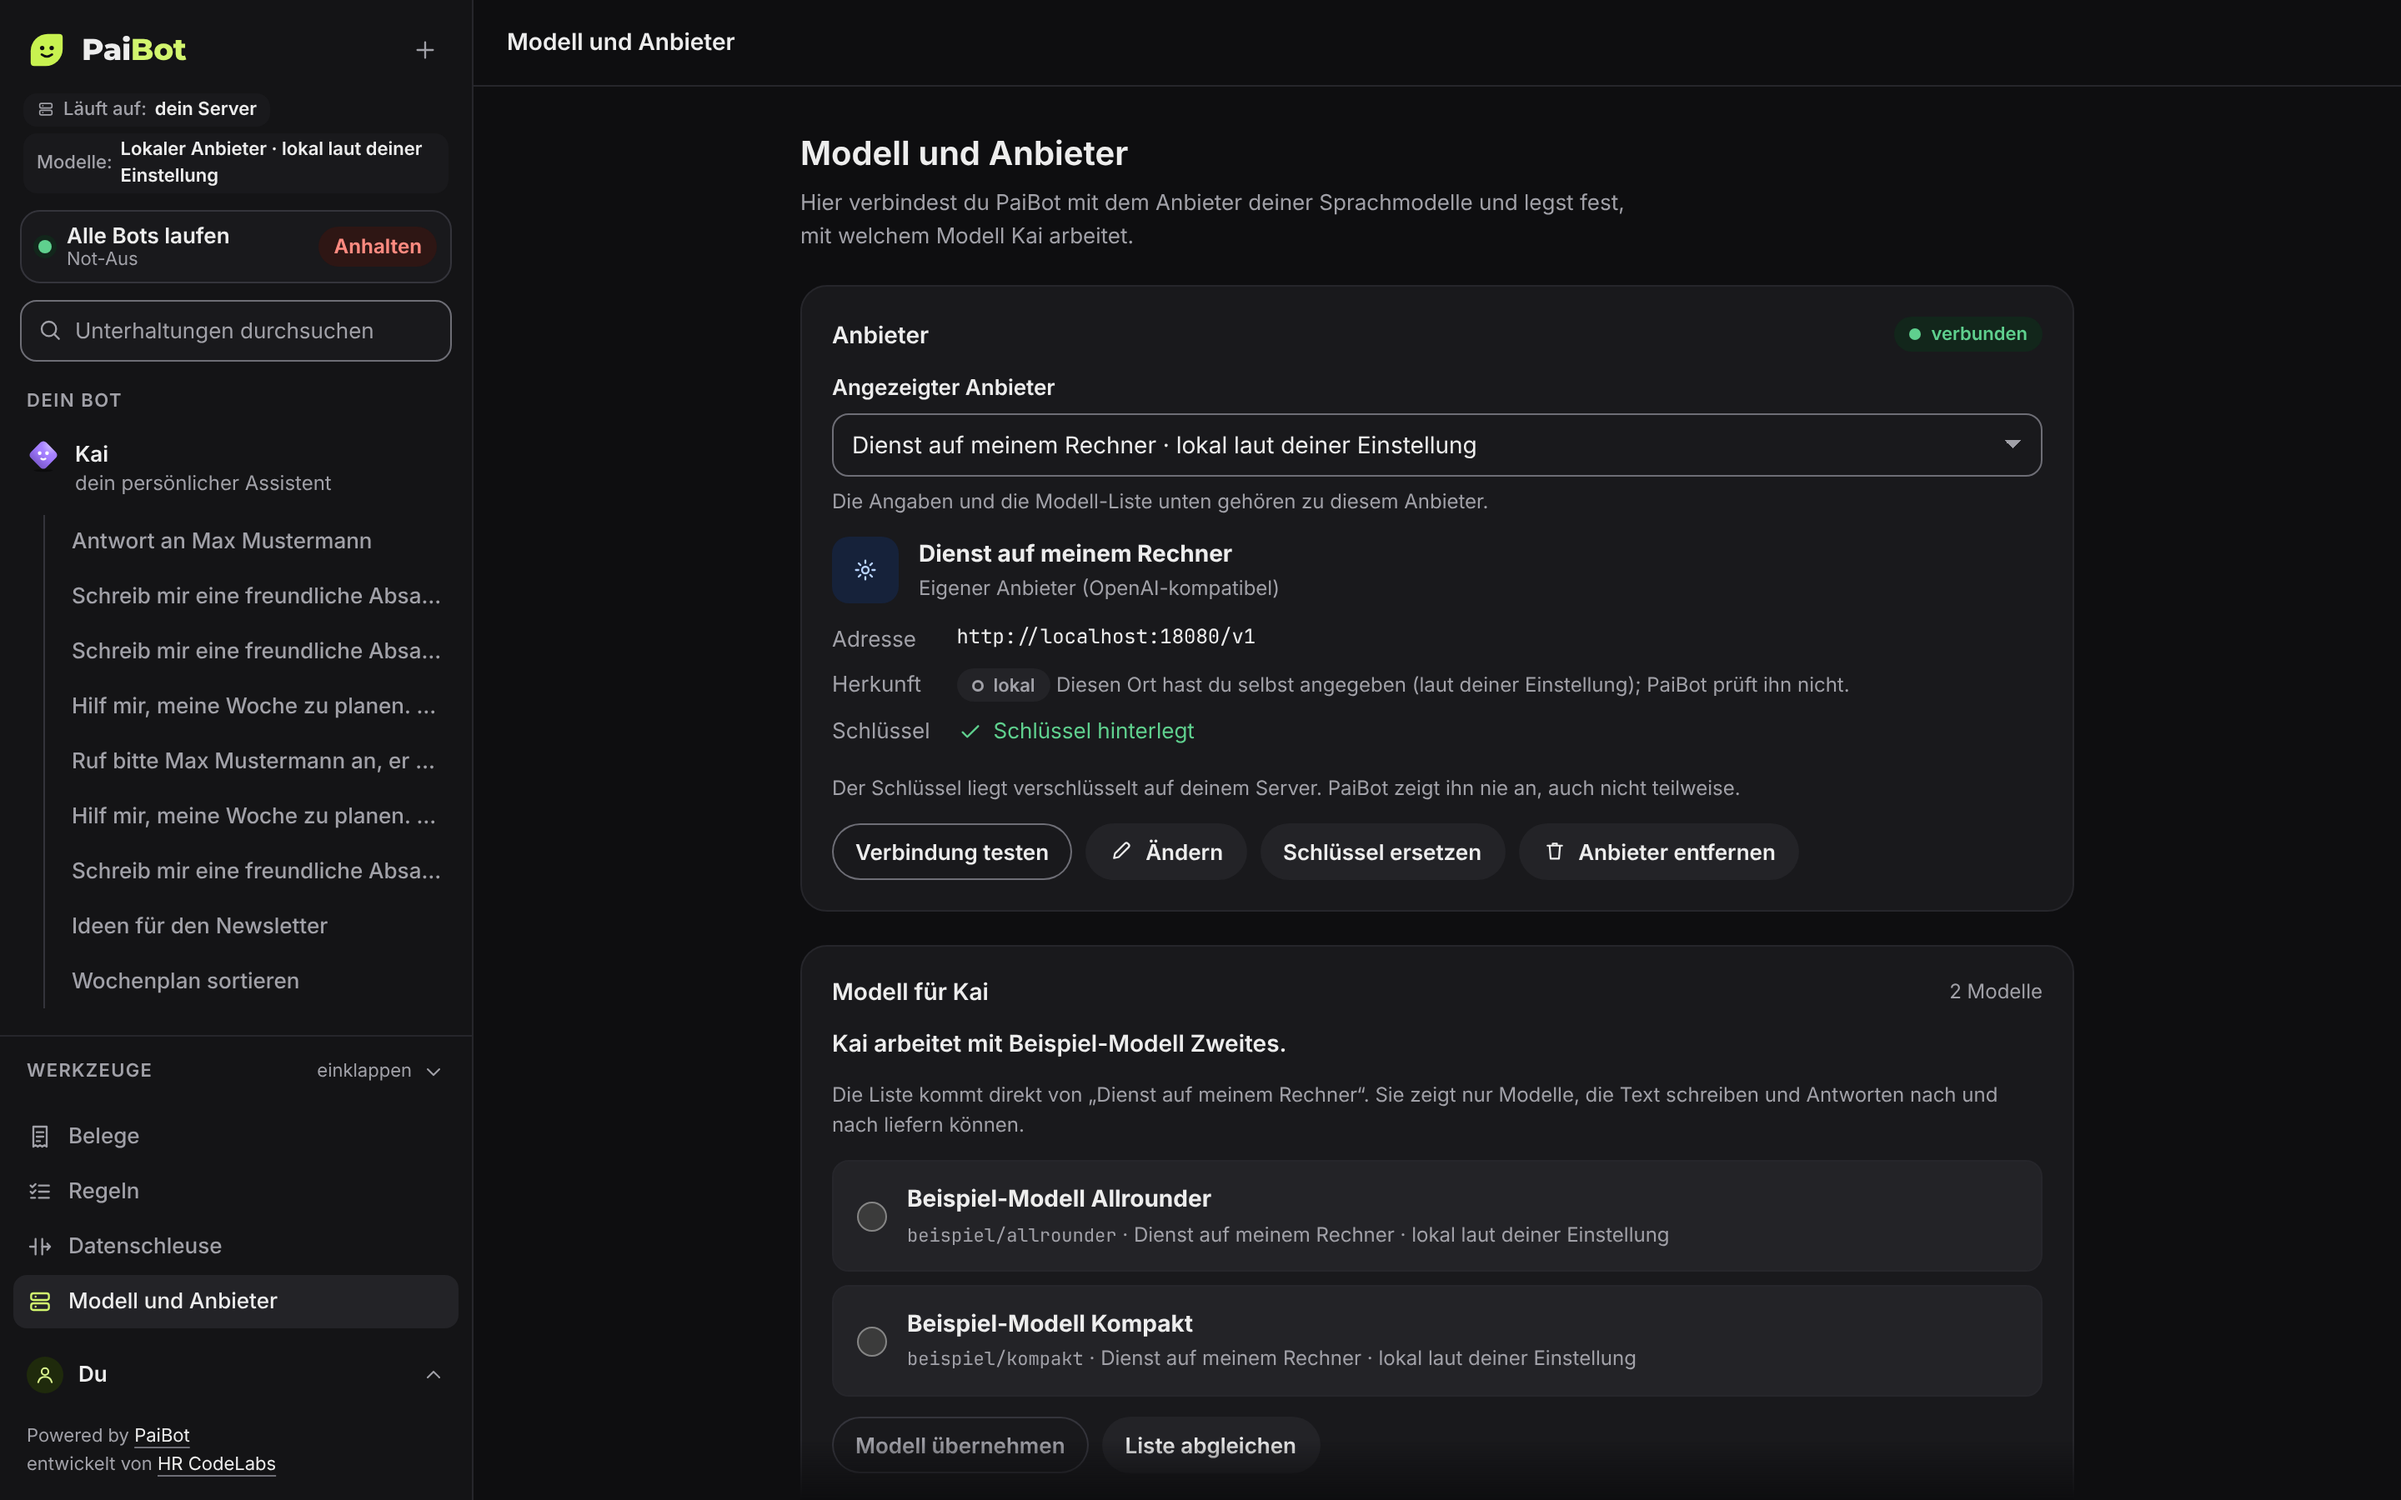
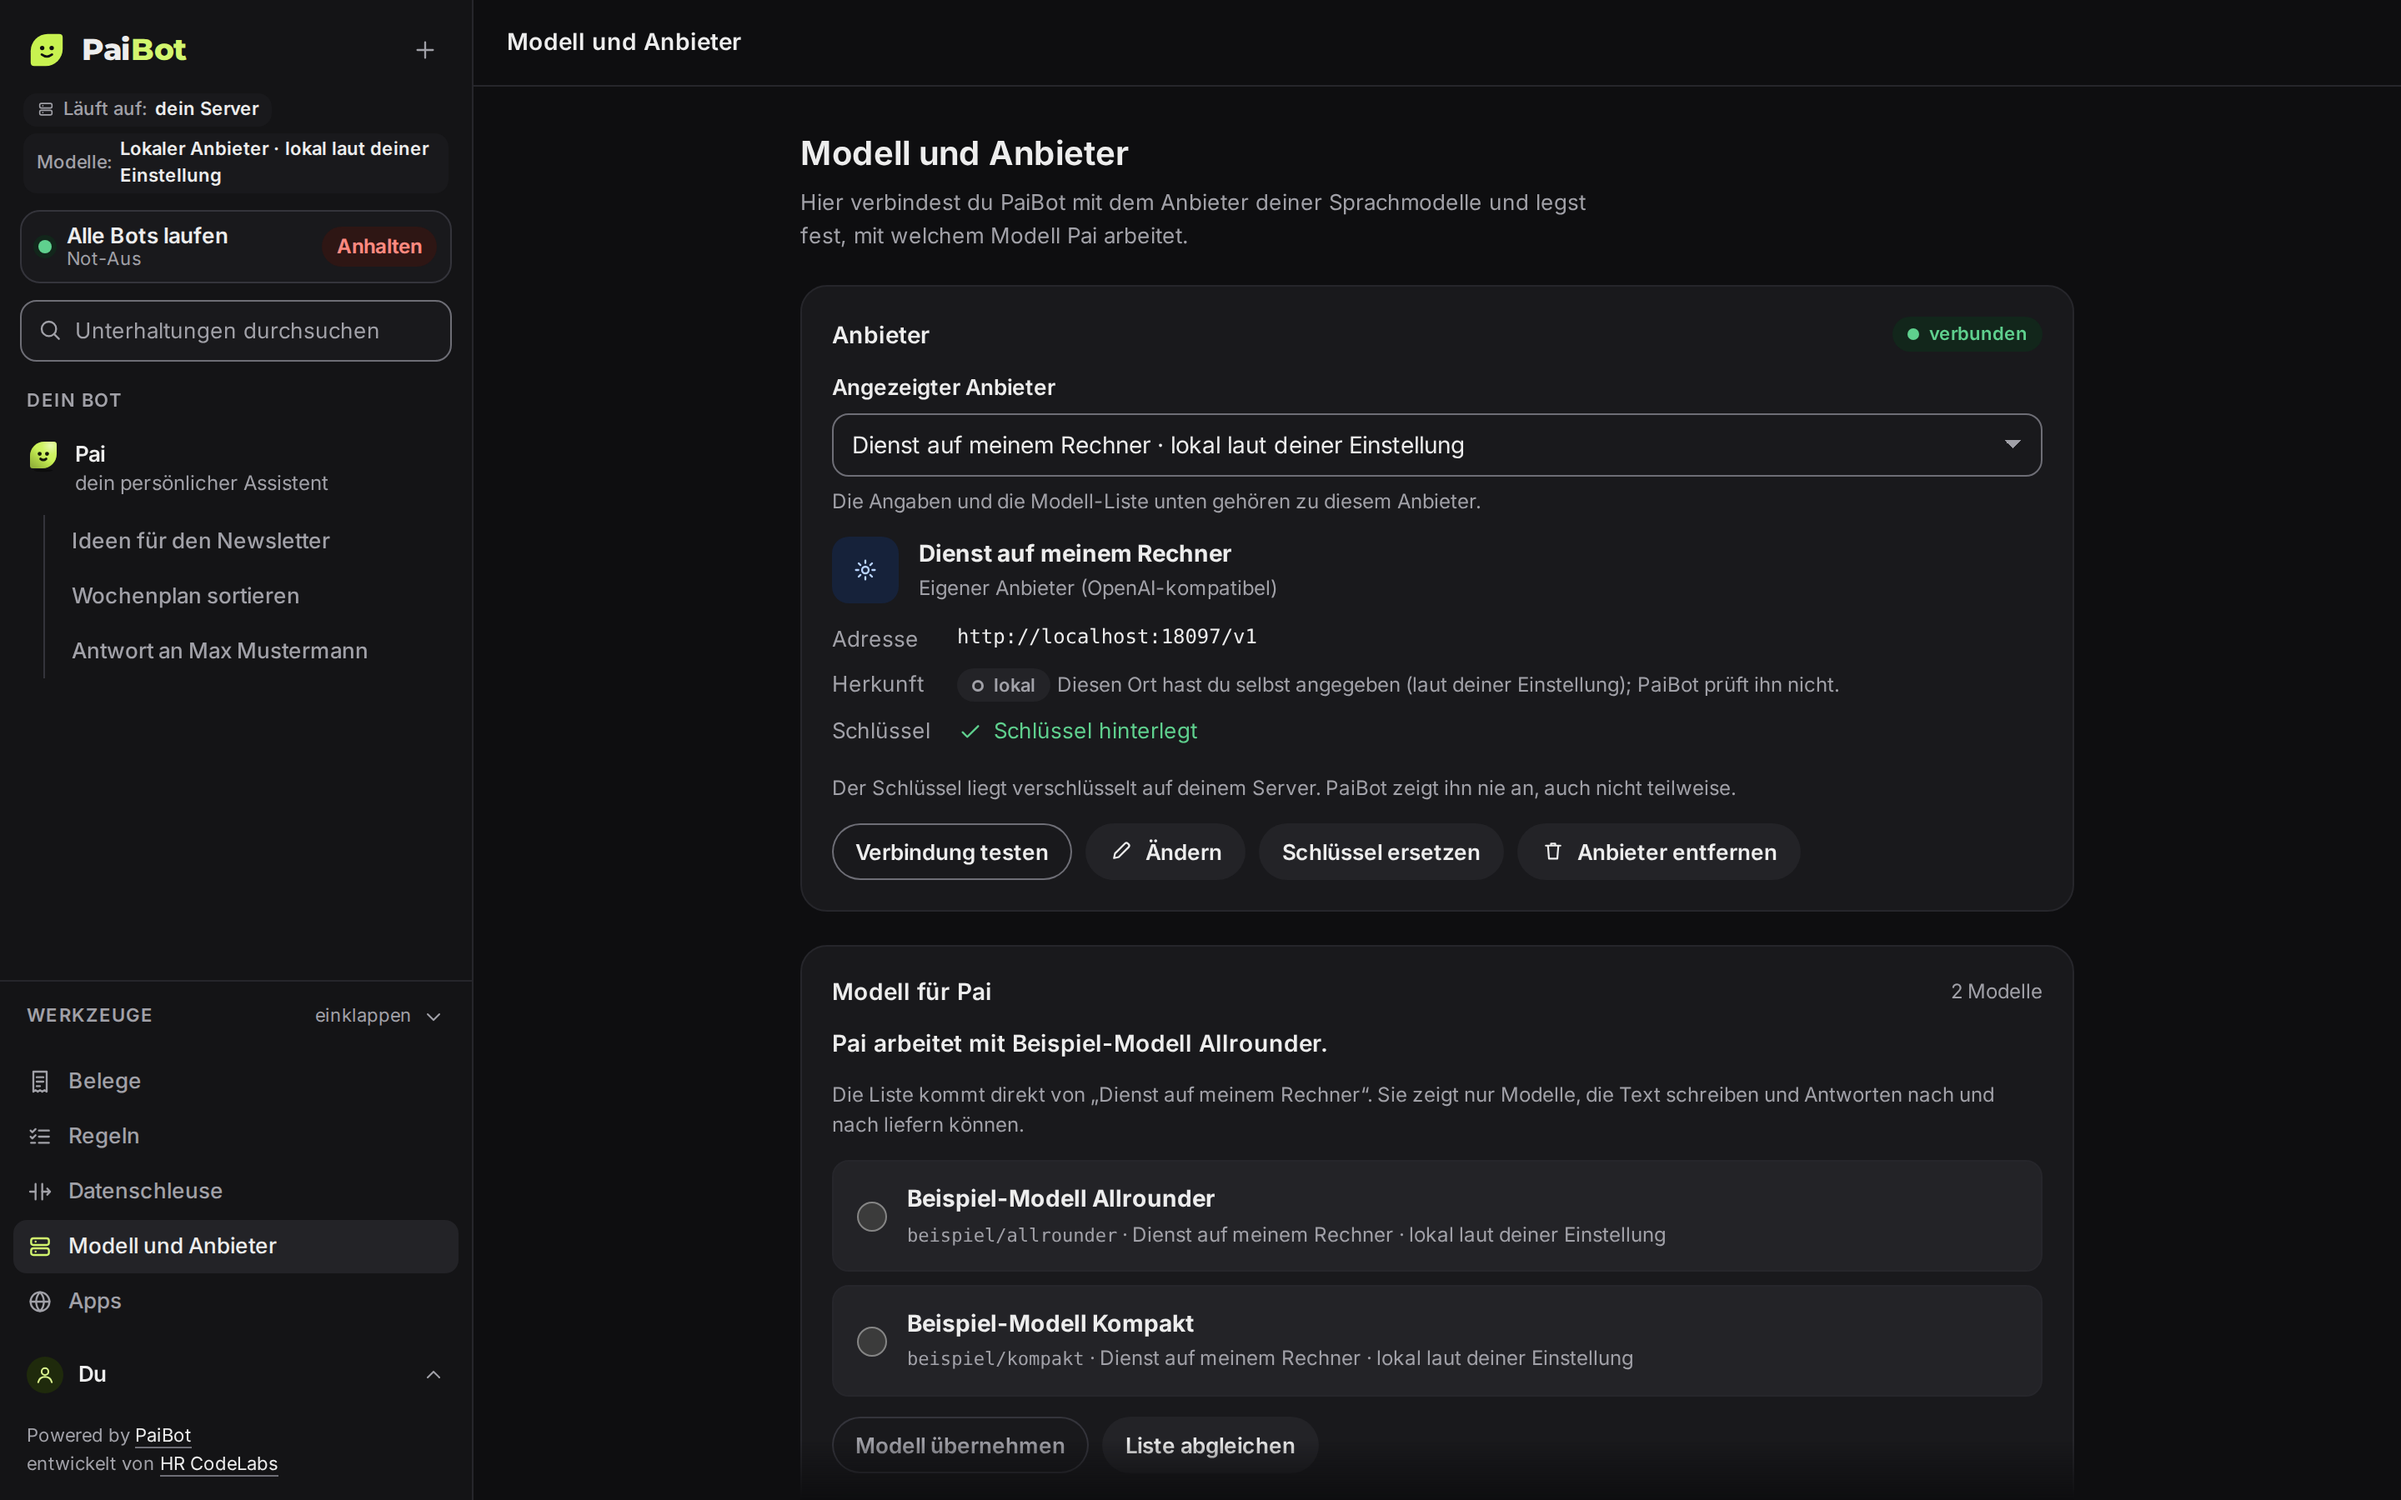
Doku-Umgebung: Adresse des Beispiel-Anbieters folgt dem Port (-adresse), Standard-Port 18097; Aufnahmen zu eigenen Anbietern neu (#74)

diff --git a/tools/lint-regeln/src/doku-bilder.test.ts b/tools/lint-regeln/src/doku-bilder.test.ts
@@ -197,6 +197,18 @@ describe("Sonderwerte und Lauf-Datei", () => {
     expect(lauf.setzeSonderwert("$$5", werte)).toBe("$5");
   });
 
+  // Gegenprobe: den Port fest auf 18080 setzen → rot.
+  it("$anbieter-adresse folgt dem Port des Test-Anbieters des Laufs (kein fest eingetragener Port)", () => {
+    const mit = (anbieterUrl: string) => ({ ...werte, anbieterUrl });
+    expect(lauf.setzeSonderwert("$anbieter-adresse", mit("http://127.0.0.1:18097"))).toBe(
+      "http://localhost:18097/v1",
+    );
+    expect(lauf.setzeSonderwert("$anbieter-adresse", mit("http://127.0.0.1:23456"))).toBe(
+      "http://localhost:23456/v1",
+    );
+    expect(() => lauf.setzeSonderwert("$anbieter-adresse", werte)).toThrow("fehlt der Wert");
+  });
+
   it("unbekannter Sonderwert oder fehlender Wert ist ein Fehler", () => {
     expect(() => lauf.setzeSonderwert("$geheim", werte)).toThrow("Unbekannter Sonderwert");
     expect(() => lauf.setzeSonderwert("$passwort", {})).toThrow("fehlt der Wert");

diff --git a/docs/funktion-anbieter-und-modelle.md b/docs/funktion-anbieter-und-modelle.md
@@ -77,7 +77,7 @@ Bei EUrouter wählst du keine Modelle aus einer Liste, sondern eine deiner Routi
 17. Gib einen Namen ein (so heißt der Anbieter in PaiBot; Steuer- und unsichtbare Zeichen entfernt PaiBot) und die Adresse des Dienstes, meist mit `/v1` am Ende.
 18. Wähle bei „Wo läuft der Dienst?“ den Ort: „Bei einem Dienst in der EU“, „Bei einem Dienst außerhalb der EU“ oder „Auf deinem Rechner oder in deinem Netz (lokal)“. Diese Angabe ist deine; PaiBot zeigt sie mit „laut deiner Einstellung“ und prüft sie nicht. „lokal“ gilt nur für Adressen auf deinem Rechner oder in deinem Netz: Eine öffentliche Adresse ist nie „lokal“ – auch nicht, wenn ein Name dorthin zeigt – und braucht https mit einem anderen Ort. Nur bei „lokal“ sind `http://` und Adressen im eigenen Netz erlaubt; bei `http://` erscheint ein Hinweis, dass die Verbindung unverschlüsselt ist. Bei „lokal“ ist der Schlüssel freiwillig, sonst Pflicht.
 
-    ![Karte „Anbieter hinzufügen“ mit dem Formular für einen eigenen Anbieter: Name „Dienst auf meinem Rechner“, Adresse „http://localhost:18080/v1“, Ort „Auf deinem Rechner oder in deinem Netz (lokal)“, gelber Hinweis „Die Verbindung ist unverschlüsselt“, leeres Feld „Schlüssel (bei „lokal“ freiwillig)“ und der Knopf „Testen und speichern“](assets/screenshots/modelle-eigen-formular.png)
+    ![Karte „Anbieter hinzufügen“ mit dem Formular für einen eigenen Anbieter: Name „Dienst auf meinem Rechner“, Adresse „http://localhost:18097/v1“, Ort „Auf deinem Rechner oder in deinem Netz (lokal)“, gelber Hinweis „Die Verbindung ist unverschlüsselt“, leeres Feld „Schlüssel (bei „lokal“ freiwillig)“ und der Knopf „Testen und speichern“](assets/screenshots/modelle-eigen-formular.png)
 19. Klicke „Testen und speichern“. PaiBot testet die Verbindung und speichert nur, was der Dienst annimmt. Passt die Adresse nicht, steht der Grund direkt am Feld. Adressen von PaiBot selbst (Datenbank, Datenschleuse, Web-App, Worker) sind auch bei „lokal“ gesperrt.
 
     **Achtung bei „außerhalb der EU“:** Wählst du diesen Ort, lehnt das Tor jede Antwort dieses Anbieters ab (Regel „Anbieter aktiv und Region erlaubt“: erlaubt sind nur „EU“ und „lokal“), und PaiBot schickt ihm nichts. Das Formular warnt davor, und auf der Seite steht der Hinweis, solange der Ort so gewählt ist. Stimmt der Ort nicht, wähl „Ändern“ und stell ihn richtig ein, zum Beispiel „EU“ für einen Dienst in der EU oder „lokal“ für deinen eigenen Rechner. Den Ort zu ändern ist jederzeit möglich; die Warnung ersetzt nicht deine eigene Prüfung, wo der Dienst wirklich läuft.

diff --git a/docs/README.md b/docs/README.md
@@ -111,7 +111,7 @@ Wer die App zwischendurch selbst ansehen will, startet sie getrennt: `pnpm doku:
 Was `pnpm doku:app` tut:
 
 - Es startet eine frische Wegwerf-Datenbank: einen eigenen Postgres aus den Programmen des Systems (`initdb`, `pg_ctl`; als root über den Benutzer `postgres`) oder, wenn `PAIBOT_DOKU_DATABASE_URL` auf einen Wegwerf-Server zeigt, eine eigene Datenbank dort. Sie heißt immer `paibot_doku_<zufall>` und trägt einen Vermerk; gelöscht wird am Ende nur, was beides hat. Eine andere Datenbank fasst das Skript nie an.
-- Es startet den [Test-Anbieter](entwickeln.md) nur an `127.0.0.1` auf Port 18080 (anders: `PAIBOT_DOKU_ANBIETER_PORT`; die Adresse steht auf der Seite „Modell und Anbieter“), mit erfundenen Modellen und einem Wegwerf-Schlüssel. Vor jeder Aufnahme stellt das Aufnahme-Skript sein Grund-Verhalten wieder her.
+- Es startet den [Test-Anbieter](entwickeln.md) nur an `127.0.0.1` auf Port 18097 (anders: `PAIBOT_DOKU_ANBIETER_PORT`; die Adresse steht auf der Seite „Modell und Anbieter“), mit erfundenen Modellen und einem Wegwerf-Schlüssel. Vor jeder Aufnahme stellt das Aufnahme-Skript sein Grund-Verhalten wieder her.
 - Es startet eine Beispiel-Datenschleuse: eine kleine lokale Attrappe nur an `127.0.0.1`, die dem Worker „bereit“, „Schlüssel passt nicht“ oder „nicht erreichbar“ meldet und Chat-Anfragen unverändert an den Test-Anbieter weiterreicht. Sie maskiert nichts und ist nur für die Bilder da. Der Worker startet ohne sie („nicht eingerichtet“), bis eine Aufnahme mit `datenschleuse` ihn neu starten lässt.
 - Es startet Web-App und Worker im Produktions-Build, so wie Nutzer die App sehen, mit zufällig erzeugten Geheimnissen und ohne Werte aus deiner Umgebung, und liest den Einrichtungs-Code aus dem Log.
 - Web-App und Worker laufen dabei mit einer Beispiel-Uhr (`scripts/doku/beispiel-uhr.mjs`): Sie beginnt am 20.11.2026 um 14:31 und läuft tausendmal langsamer als die echte. So zeigen Belege, Sitzungen und der Zustand der Datenschleuse bei jedem Lauf dieselben Zeiten. Zeiten, die die Datenbank selbst setzt (etwa an Nachrichten im Chat), bleiben echt; solche Stellen blendet `verdecke` aus.
